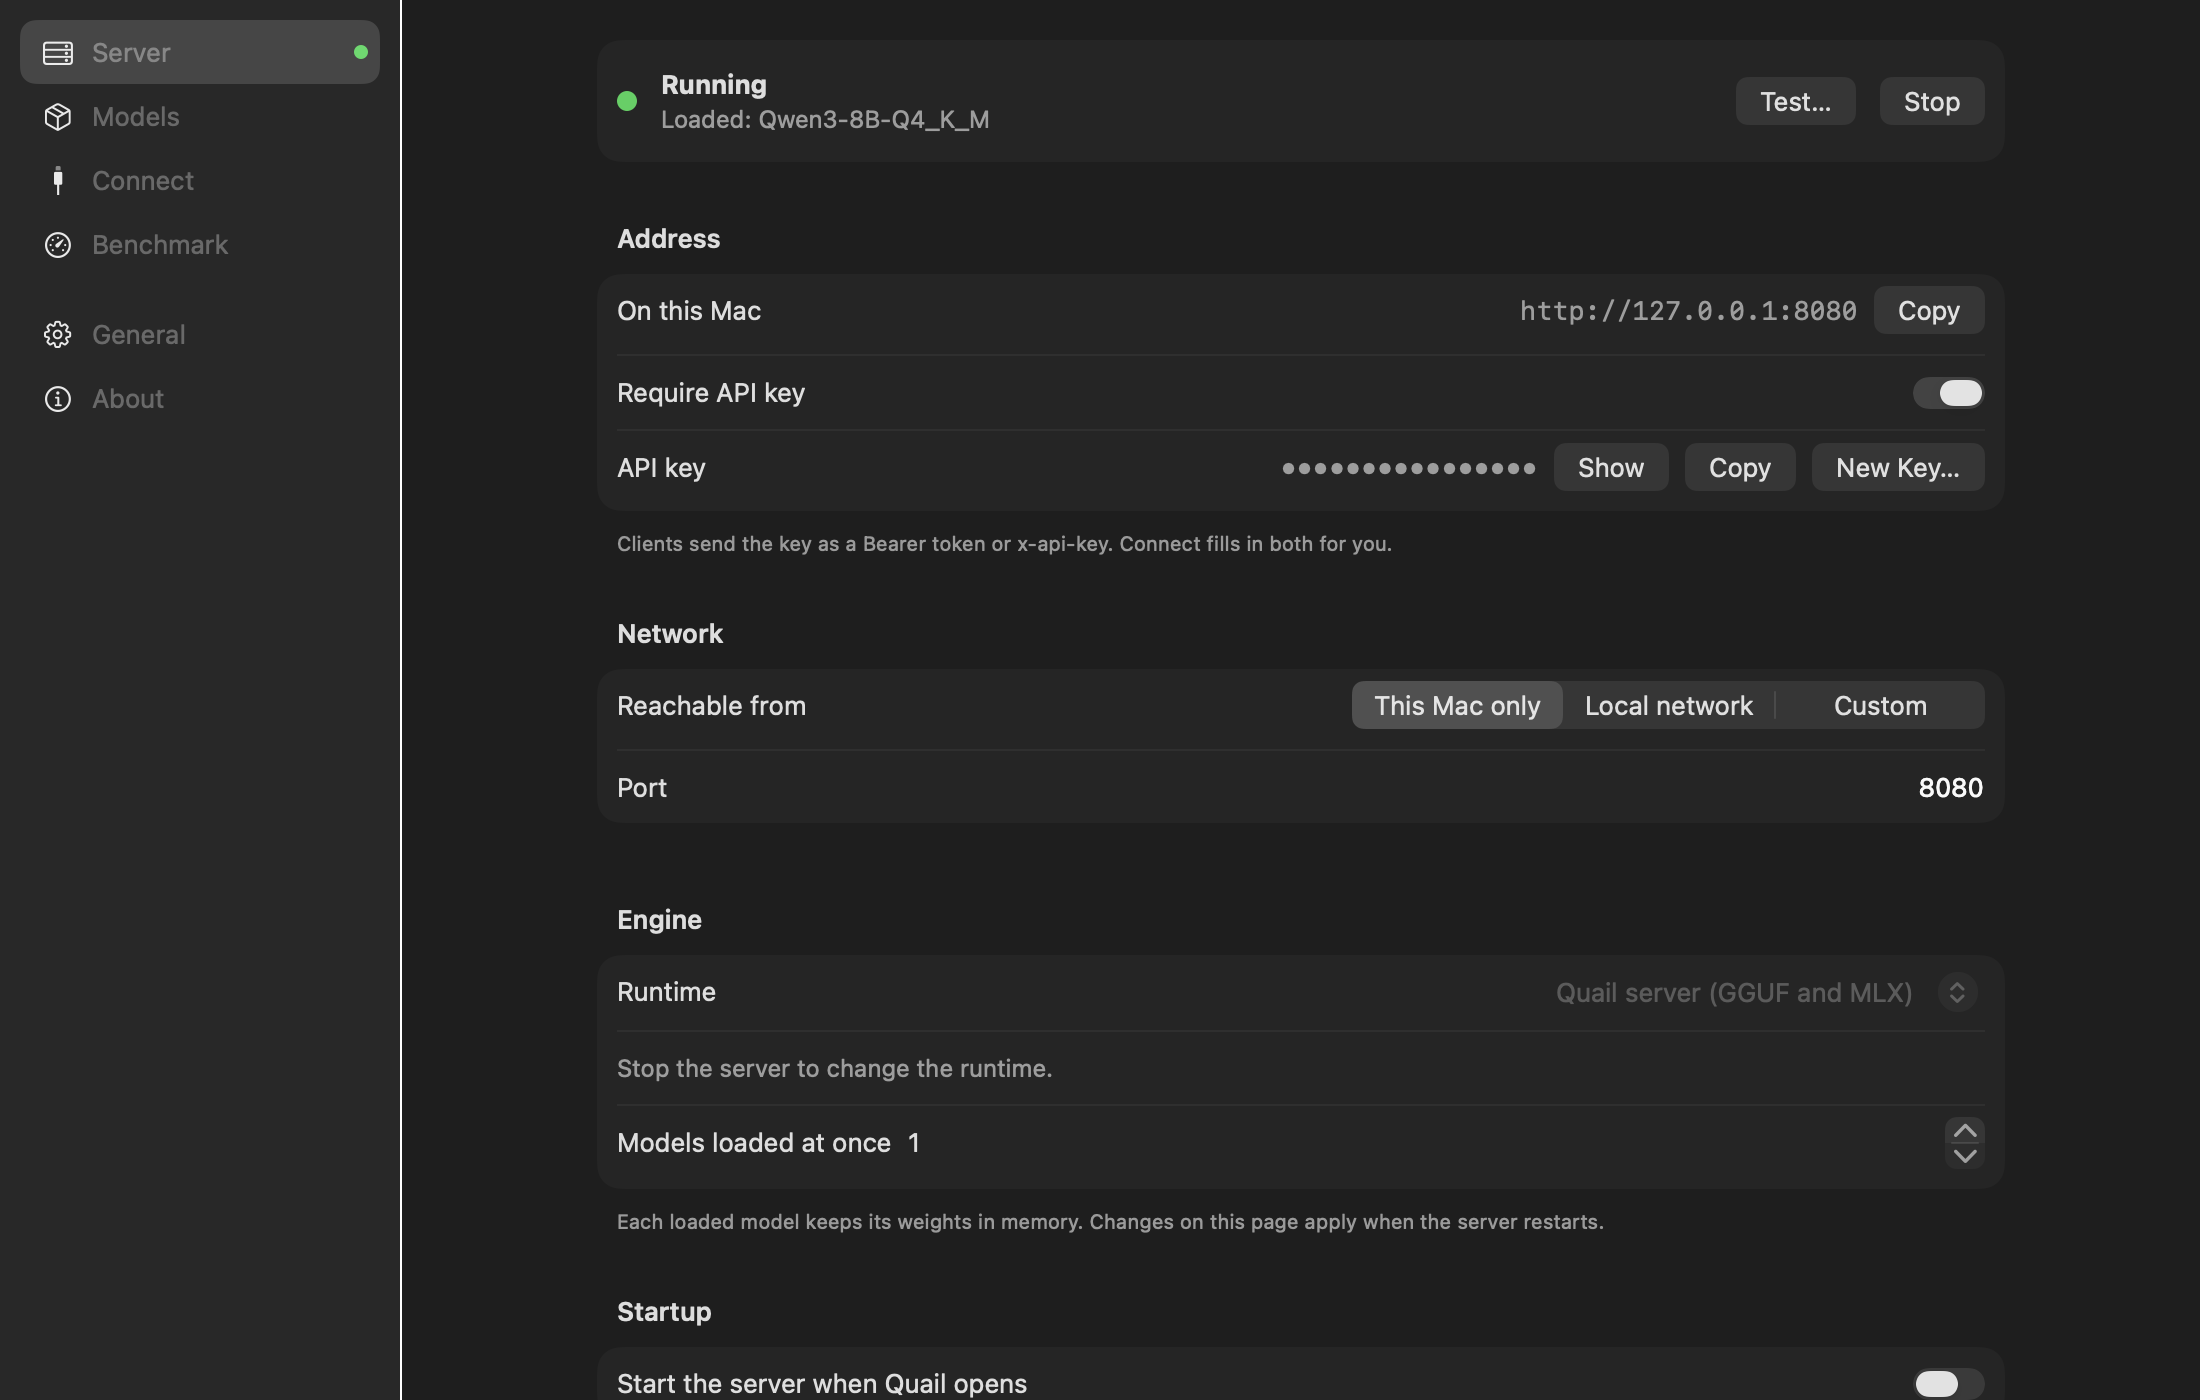
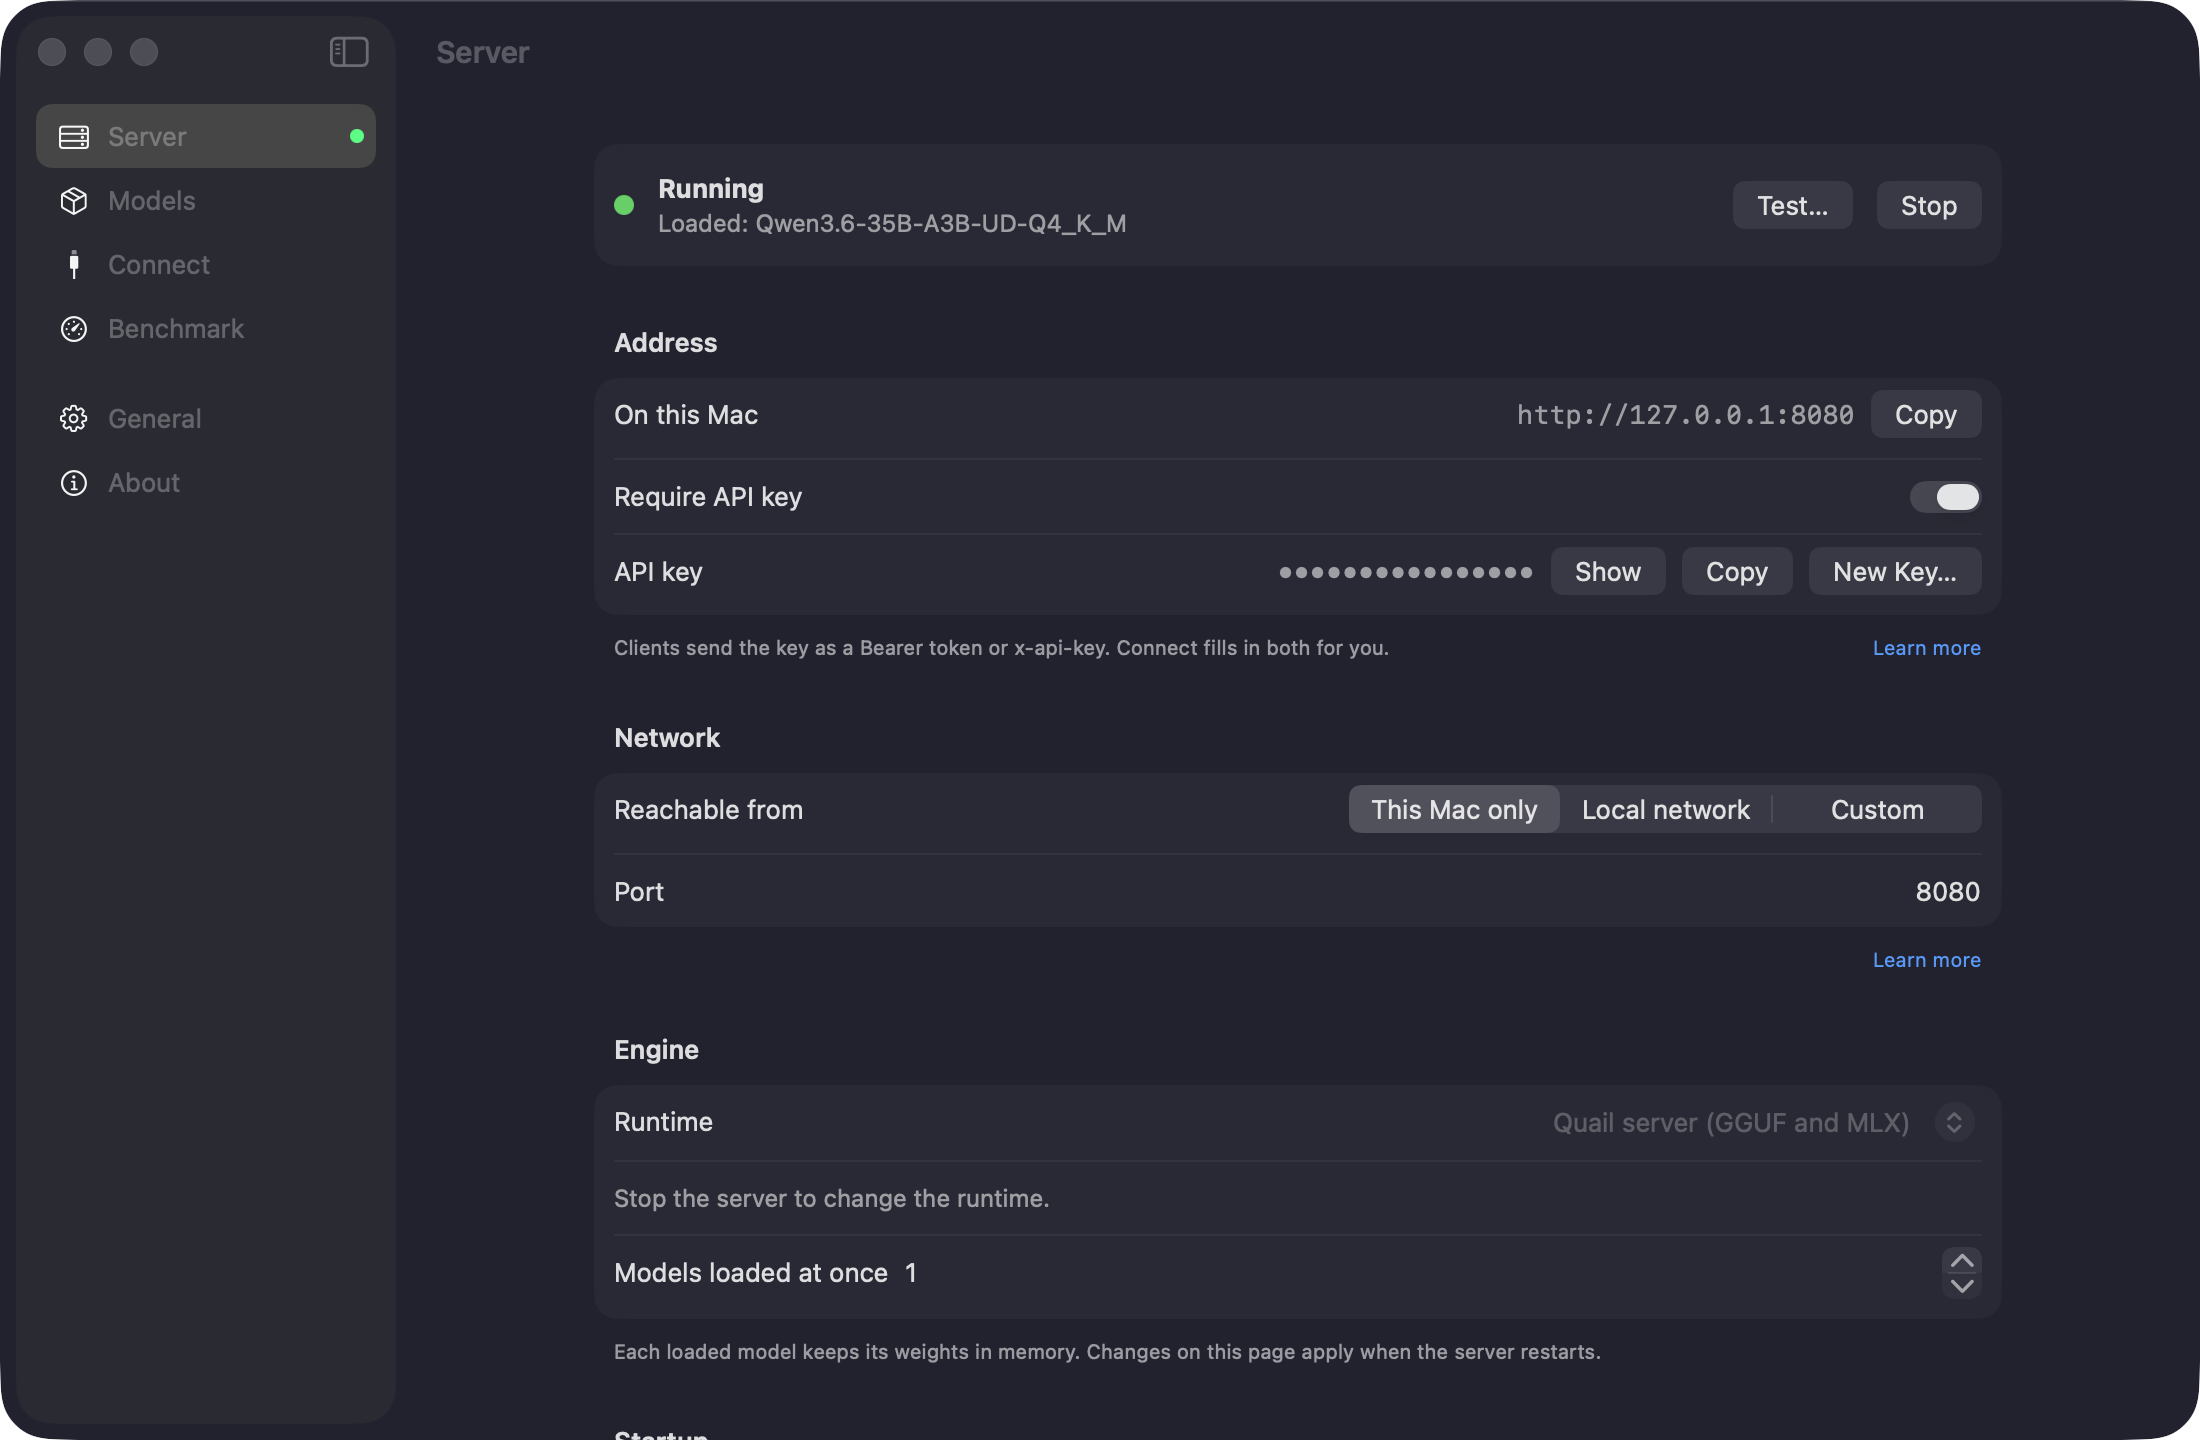
docs(site): real screenshots of the Quail window, light and dark

diff --git a/website/index.html b/website/index.html
@@ -41,7 +41,7 @@
         <figure class="shot">
           <picture>
             <source srcset="assets/img/quail-window-dark.png" media="(prefers-color-scheme: dark)">
-            <img src="assets/img/quail-window-light.png" width="2200" height="1400" alt="The Quail window: the Server page, showing the server running with its address and API key, and a sidebar with Server, Models, Connect, Benchmark, General and About.">
+            <img src="assets/img/quail-window-light.png" width="2200" height="1440" alt="The Quail window: the Server page, showing the server running with its address and API key, and a sidebar with Server, Models, Connect, Benchmark, General and About.">
           </picture>
           <figcaption>The Quail window: the server, its models, your tools and benchmarks, in one place.</figcaption>
         </figure>

diff --git a/docs/IMPLEMENTATION_PLAN.md b/docs/IMPLEMENTATION_PLAN.md
@@ -267,7 +267,7 @@ Agreed 2026-09-28. Phases 1–3c are done and Phase 4 is done except step 5b. Wh
 - [x] Enforce HTTPS, once GitHub issued the certificate.
 - [x] `QuailWebsiteURL`, the cask's `homepage`, a README link, and the repository's homepage and description.
 - [x] Both domains verified on the personal GitHub account (`adatoo`, Settings → Pages), so no other account can claim them: a `_github-pages-challenge-adatoo` TXT record in each Cloudflare zone, DNS only. Keep them.
-- [ ] Replace the offscreen screenshots with real ones from a running app when convenient.
+- [x] Replace the offscreen screenshots with real ones from a running app *(2026-10-03: the Server page of a Debug build on a scratch `QUAIL_DATA_ROOT`, serving Qwen3.6 35B-A3B on port 8080, captured with `screencapture -l` in light and dark mode)*.
 
 ## Benchmarks against Ollama, oMLX and Rapid-MLX (D-063)
 

diff --git a/CHANGELOG.md b/CHANGELOG.md
@@ -10,6 +10,10 @@ version's section with `task version:bump` (ADR D-024); every merge to
 
 ## [Unreleased]
 
+### Changed
+
+- The website's picture of the Quail window is now a screenshot of the real app, serving a model, in light and dark mode. It used to be rendered offscreen.
+
 ## [0.72.2] - 2026-10-03
 
 ### Added
